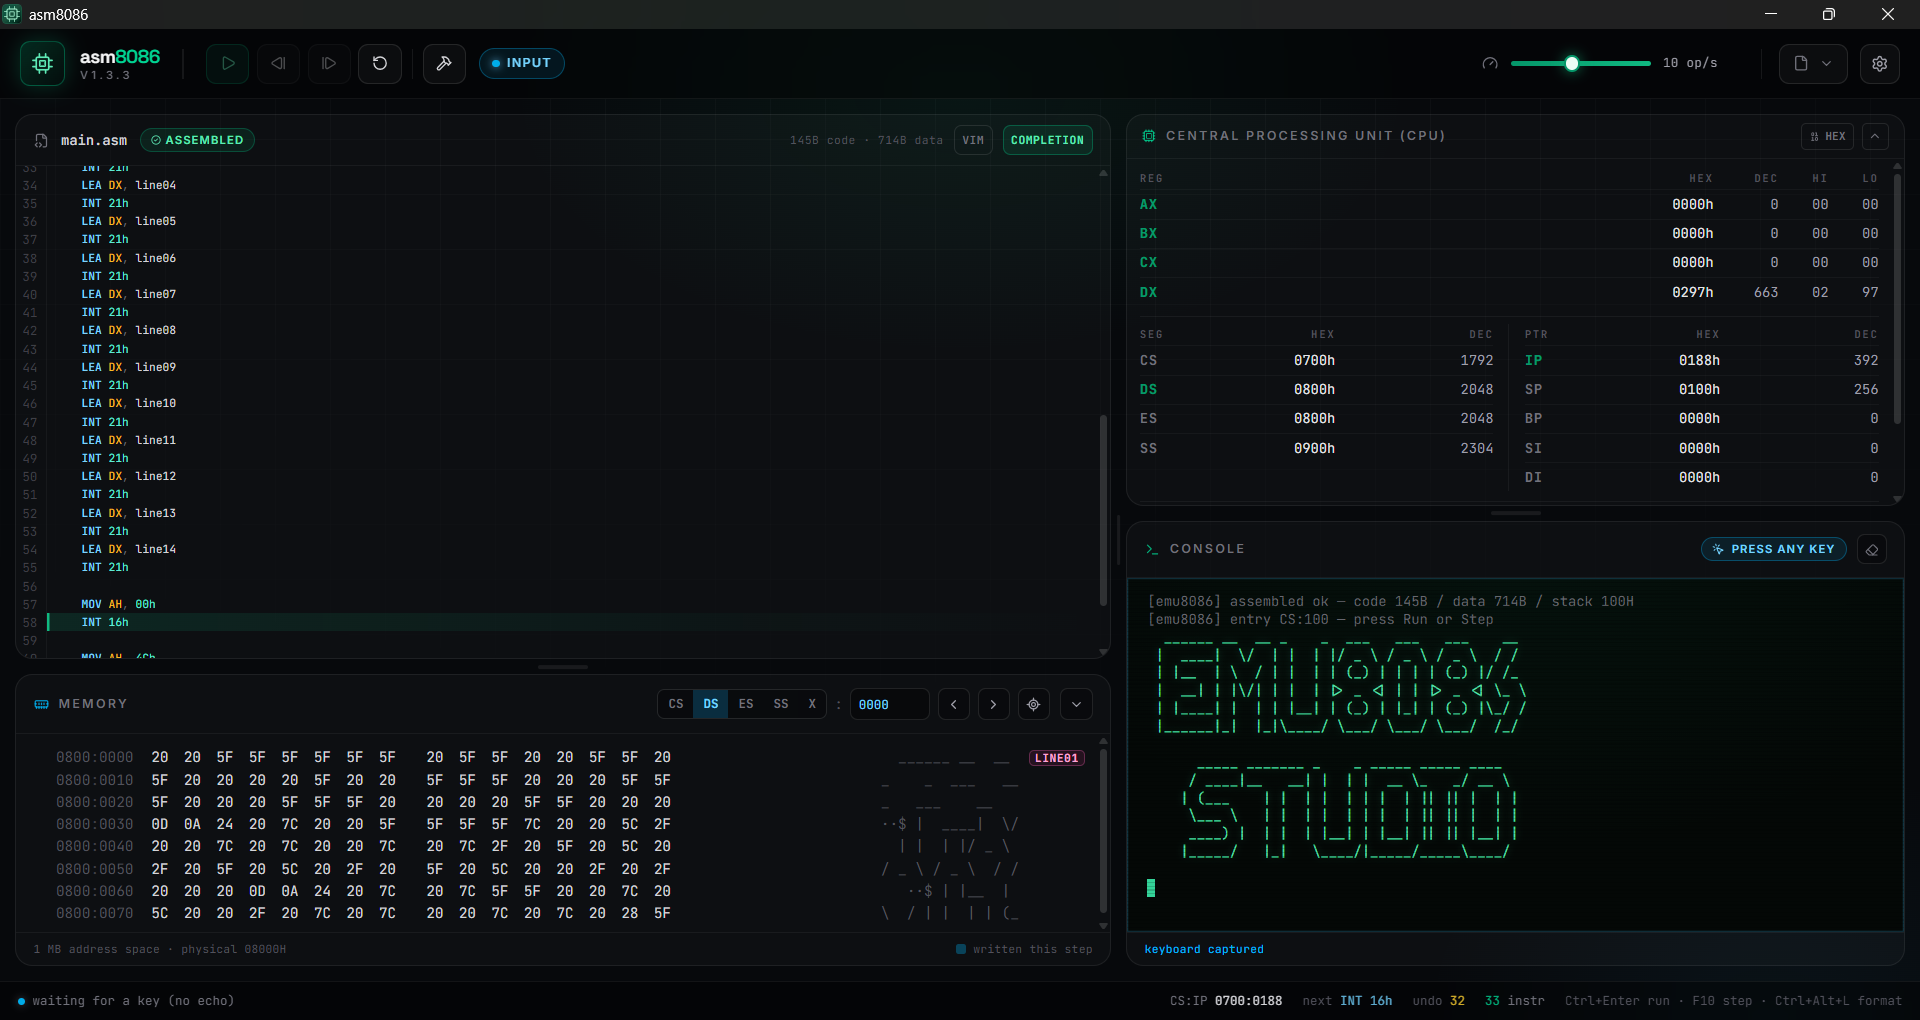
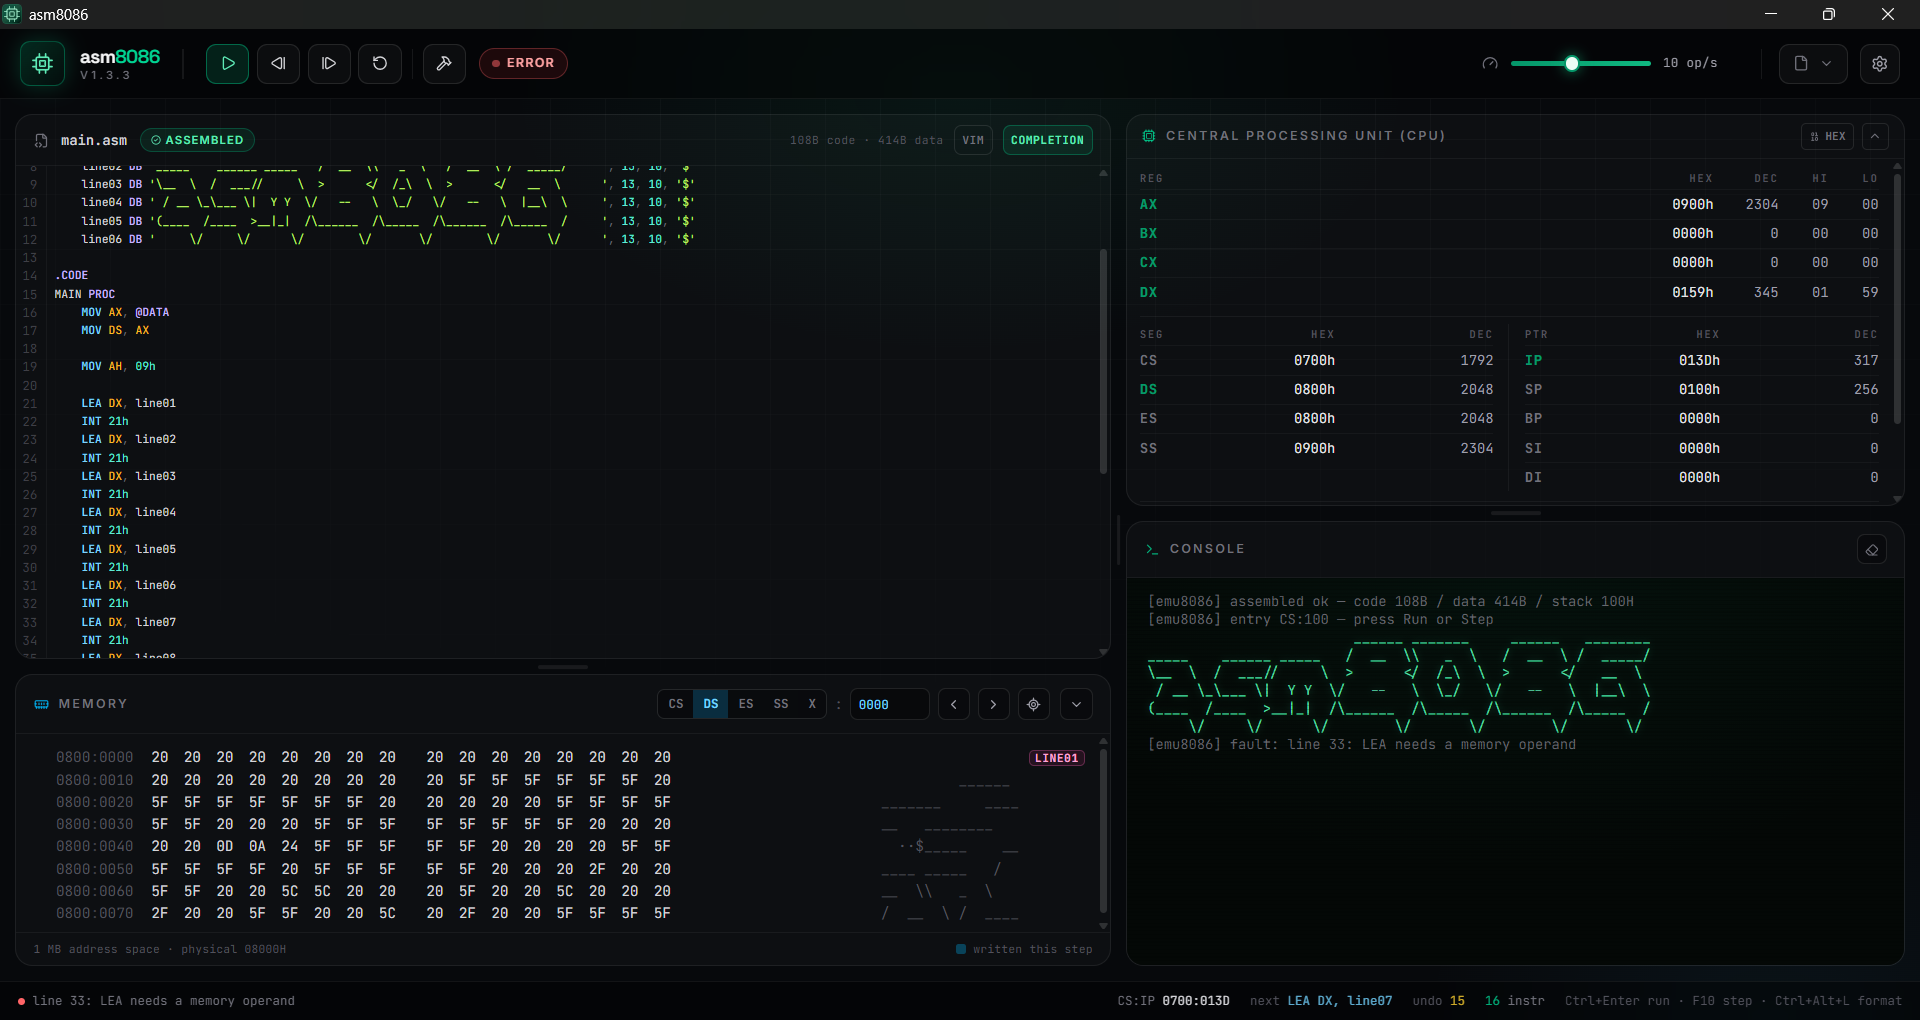
- fixed cursor position on auto-format - rebranding

diff --git a/src/examples.ts b/src/examples.ts
@@ -16,20 +16,13 @@ export const EXAMPLES: Example[] = [
 .stack 100h
 
 .DATA
-    line01 DB '  ______ __  __ _    _  ___   ___   ___    __   ', 13, 10, '$'
-    line02 DB ' |  ____|  \\/  | |  | |/ _ \\ / _ \\ / _ \\  / /   ', 13, 10, '$'
-    line03 DB ' | |__  | \\  / | |  | | (_) | | | | (_) |/ /_   ', 13, 10, '$'
-    line04 DB ' |  __| | |\\/| | |  | |> _ <| | | |> _ <| \\_ \\  ', 13, 10, '$'
-    line05 DB ' | |____| |  | | |__| | (_) | |_| | (_) |\\_/ /  ', 13, 10, '$'
-    line06 DB ' |______|_|  |_|\\____/ \\___/ \\___/ \\___/  /_/   ', 13, 10, '$'
-    line07 DB '                                                ', 13, 10, '$'
-    line08 DB '      _____ _______ _    _ _____ _____ ____     ', 13, 10, '$'
-    line09 DB '     / ____|__   __| |  | |  __ \\_   _/ __ \\    ', 13, 10, '$'
-    line10 DB '    | (___    | |  | |  | | |  | || || |  | |   ', 13, 10, '$'
-    line11 DB '     \\___ \\   | |  | |  | | |  | || || |  | |   ', 13, 10, '$'
-    line12 DB '     ____) |  | |  | |__| | |__| || || |__| |   ', 13, 10, '$'
-    line13 DB '    |_____/   |_|   \\____/|_____/_____\\____/    ', 13, 10, '$'
-    line14 DB '                                                ', 13, 10, '$'
+    line01 DB '                         ______ _______     ______   ________     ', 13, 10, '$'
+    line02 DB '_____    ______ _____   /  __  \\\\   _  \\   /  __  \\ /  _____/     ', 13, 10, '$'
+    line03 DB '\\__  \\  /  ___//     \\  >      </  /_\\  \\  >      </   __  \\      ', 13, 10, '$'
+    line04 DB ' / __ \\_\\___ \\|  Y Y  \\/   --   \\  \\_/   \\/   --   \\  |__\\  \\     ', 13, 10, '$'
+    line05 DB '(____  /____  >__|_|  /\\______  /\\_____  /\\______  /\\_____  /     ', 13, 10, '$'
+    line06 DB '     \\/     \\/      \\/        \\/       \\/        \\/       \\/      ', 13, 10, '$'
+
 .CODE
 MAIN PROC
     MOV AX, @DATA
@@ -63,8 +56,6 @@ MAIN PROC
     INT 21h
     LEA DX, line13
     INT 21h
-    LEA DX, line14
-    INT 21h
 
     MOV AH, 00h
     INT 16h
@@ -72,8 +63,7 @@ MAIN PROC
     MOV AH, 4Ch
     INT 21h
     MAIN ENDP
-END START
-    `
+END START`
   },
   {
     id: "ex1",
